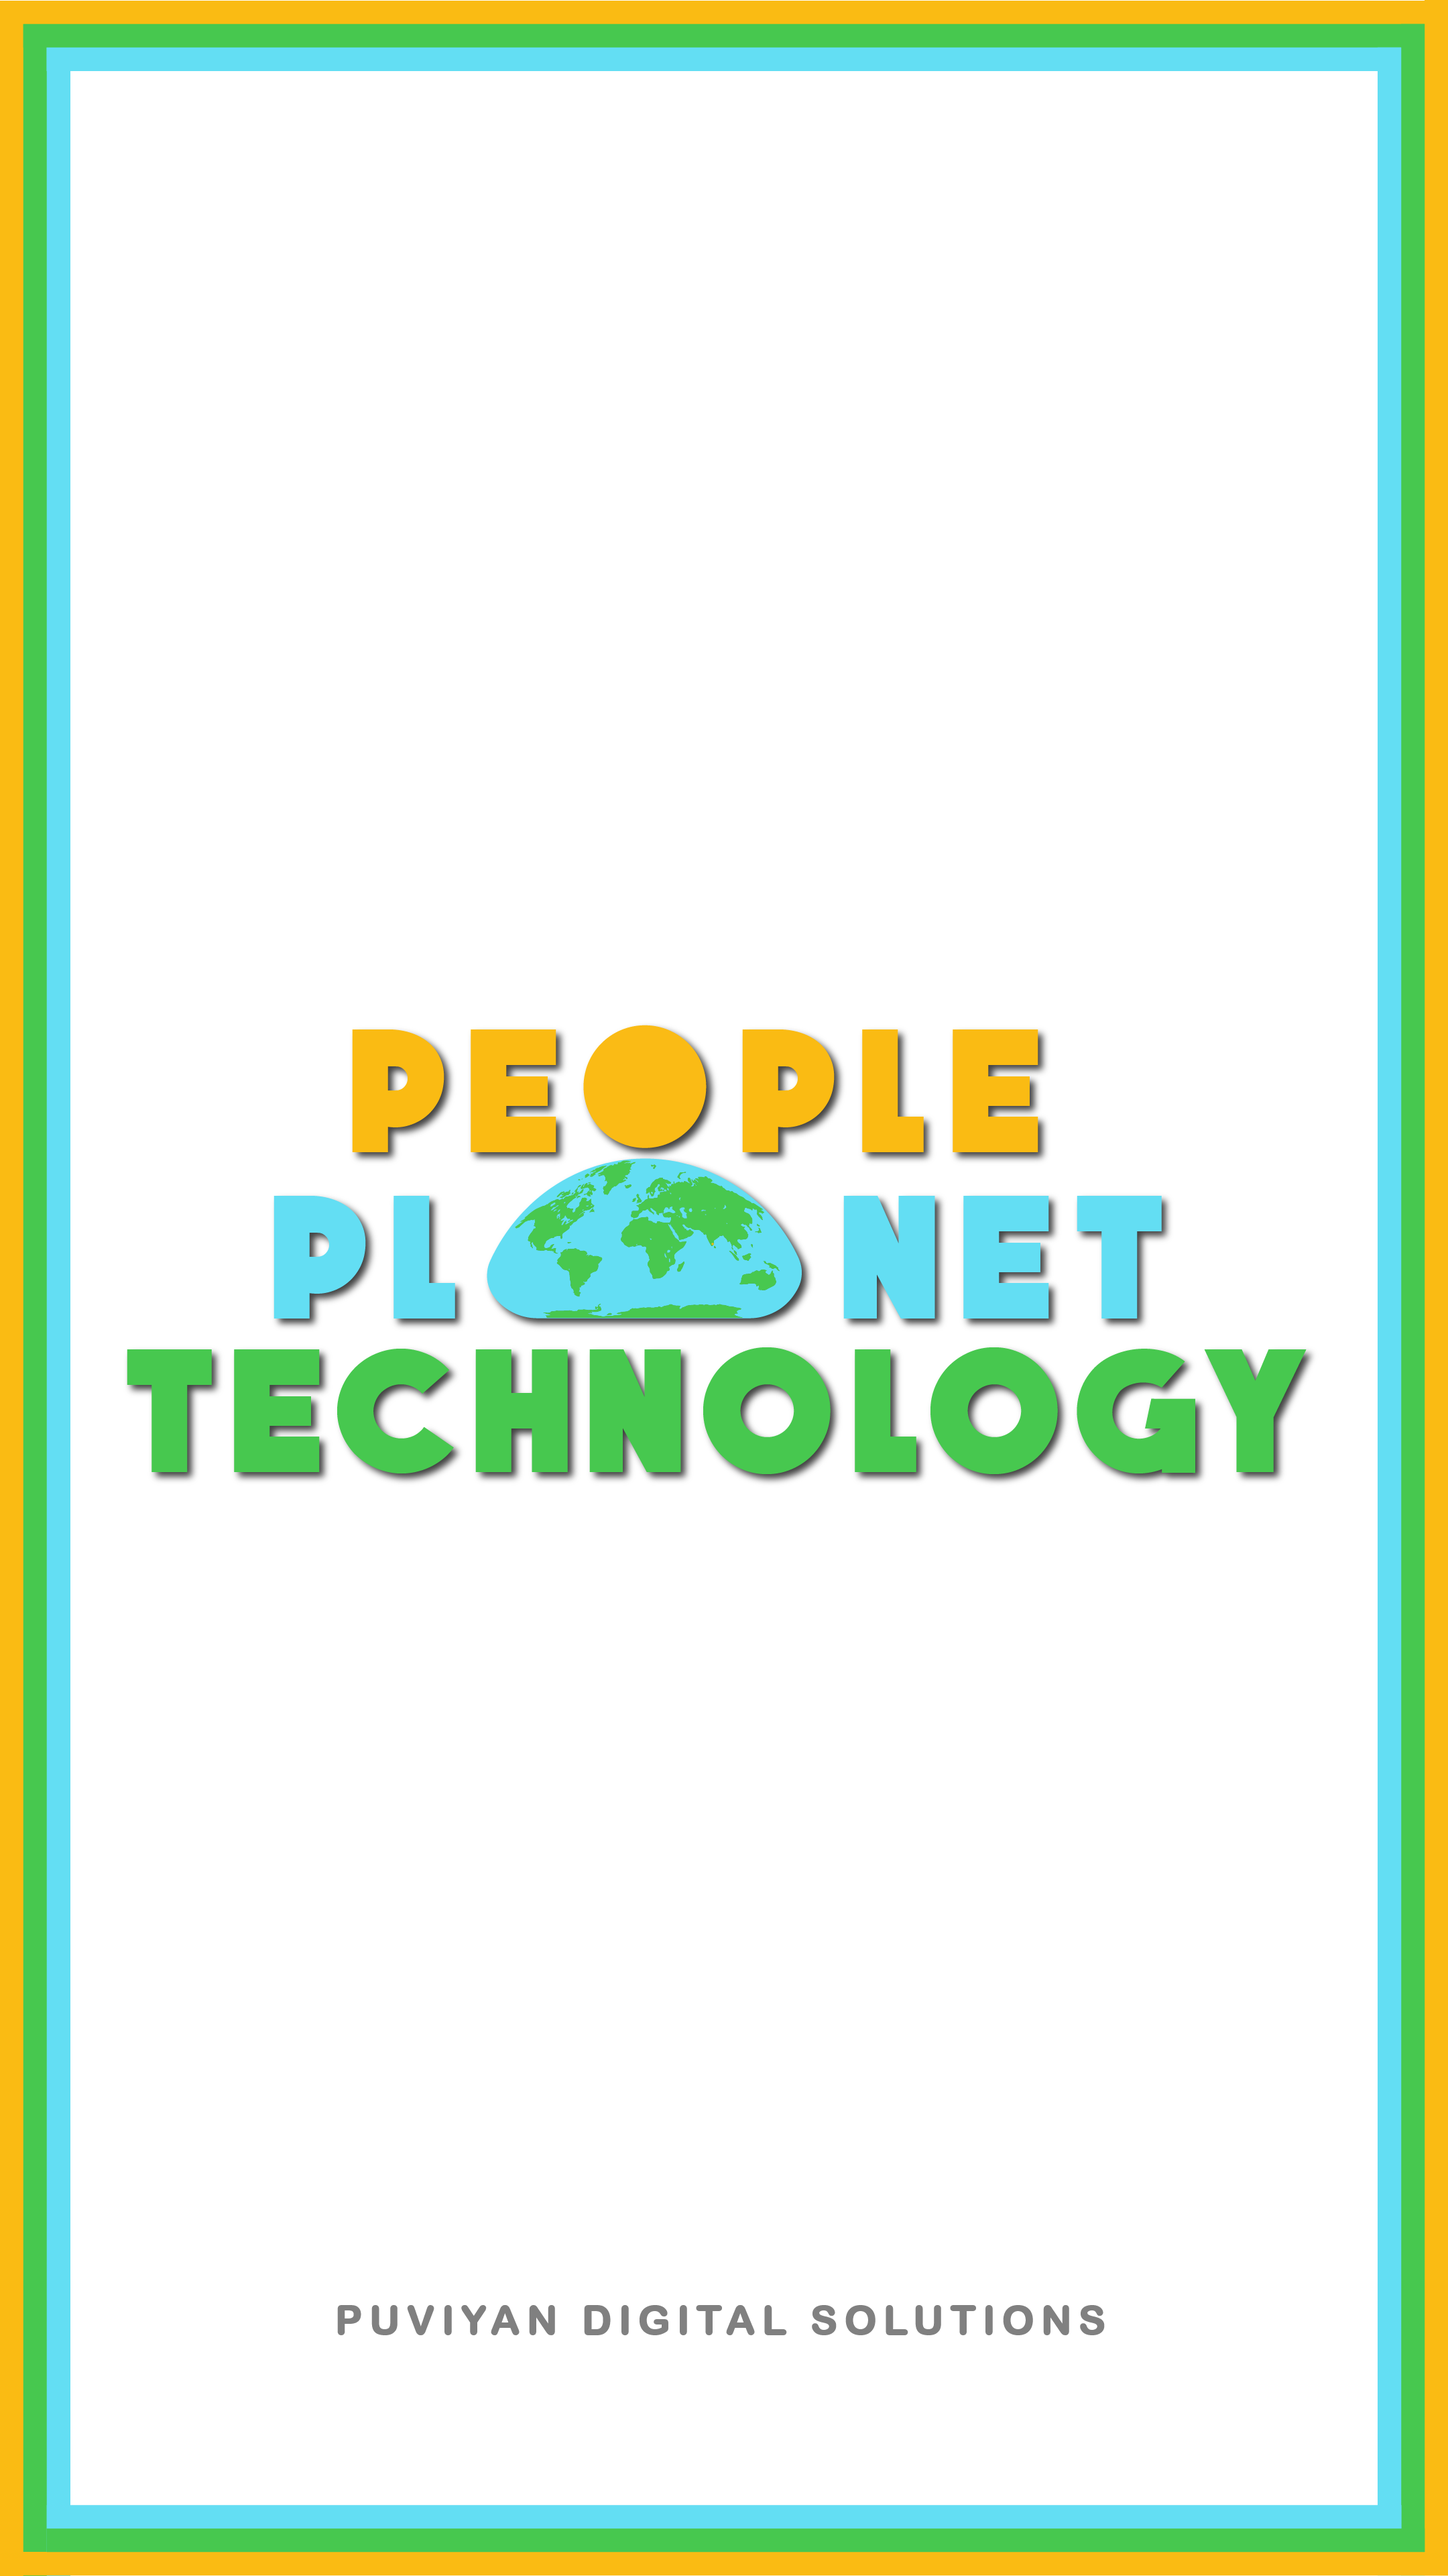
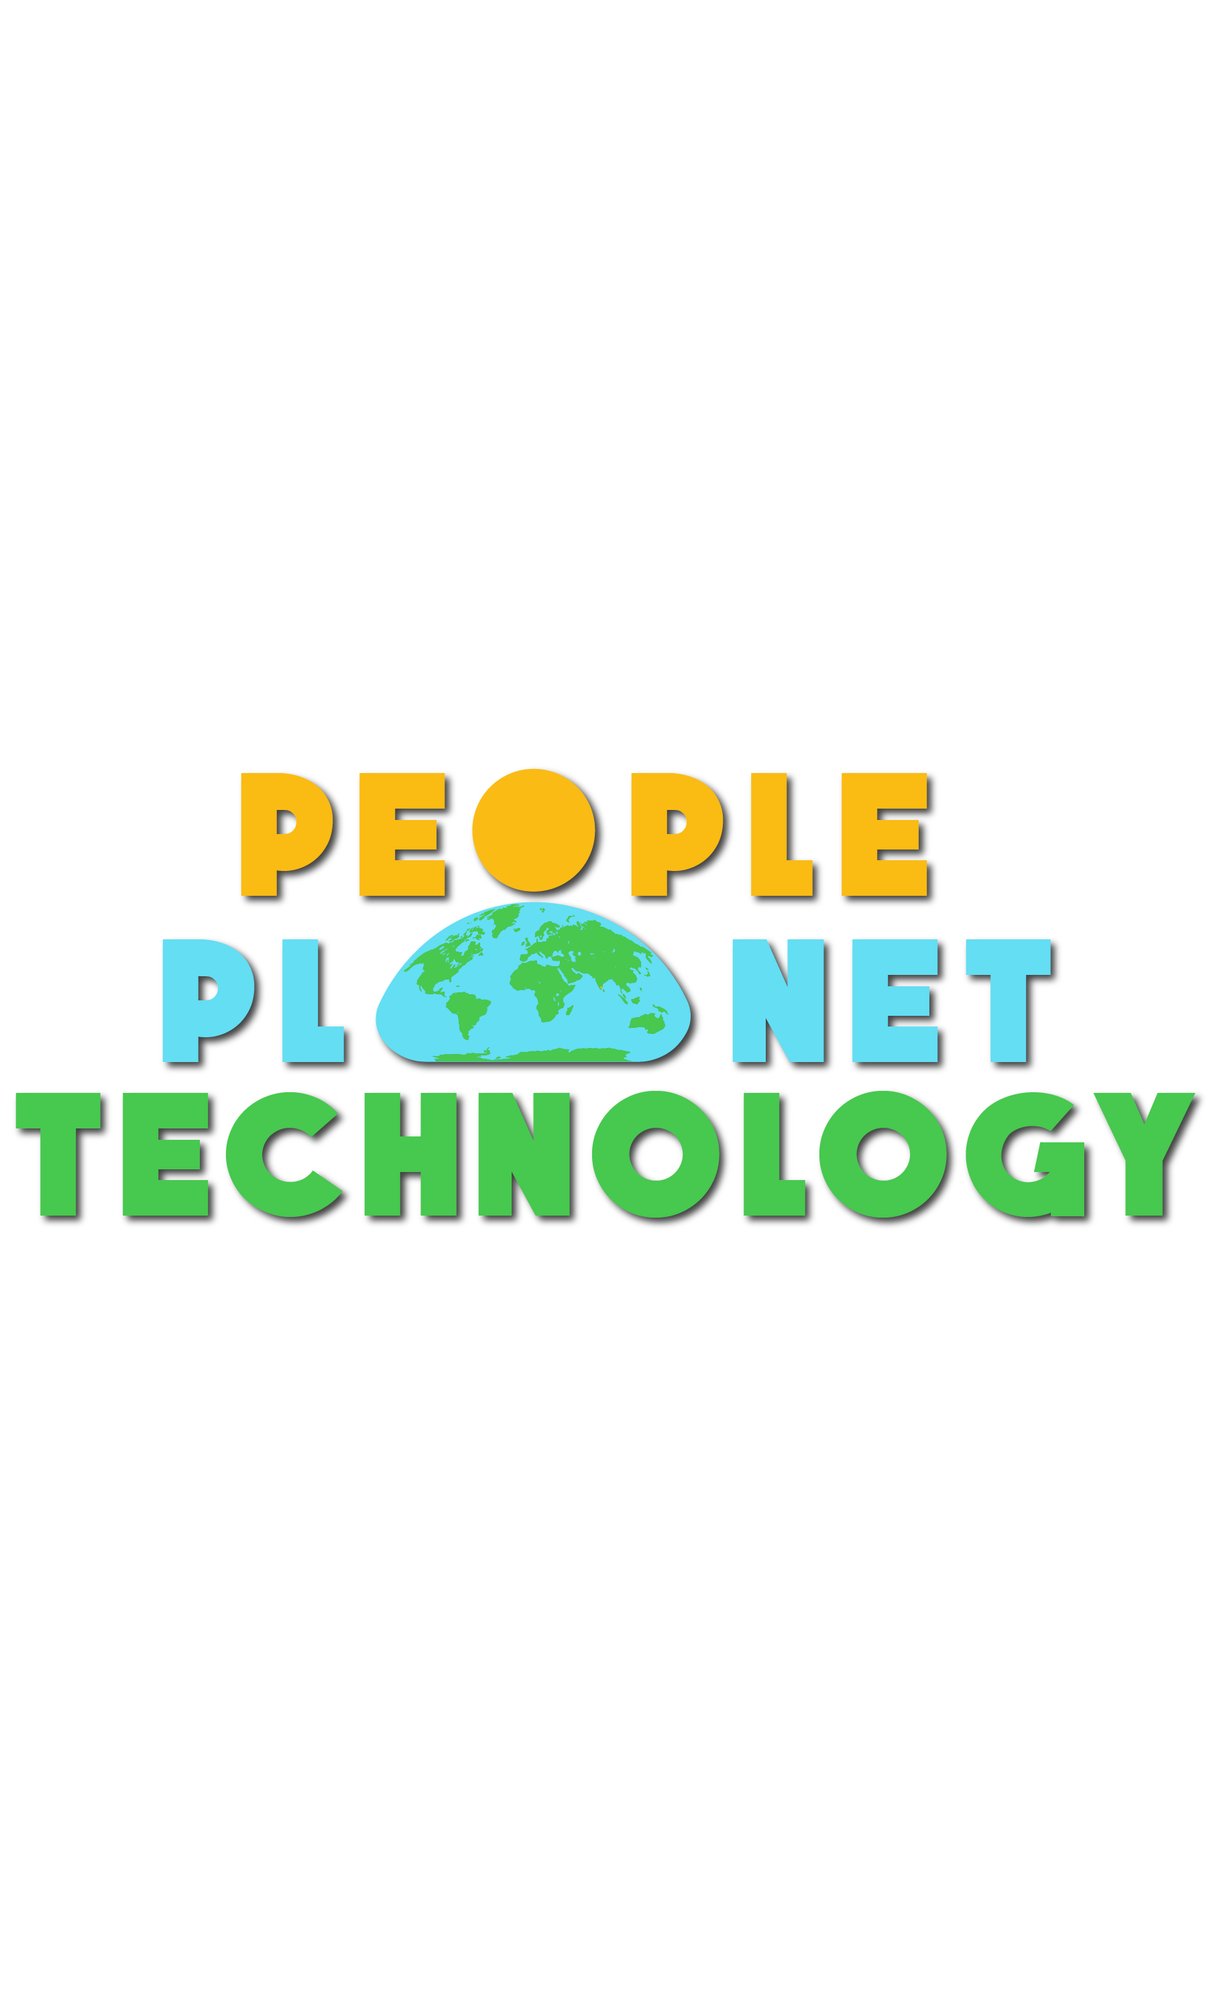
Added file

diff --git a/src/components/AboutUs.tsx b/src/components/AboutUs.tsx
@@ -12,17 +12,15 @@ Real change begins with individual action, but its true strength lies in the sha
   `;
 
   return (
-    <section className="w-full bg-white">
+    <section className="w-full bg-white relative overflow-hidden">
+      {/* Three-line border */}
+      <div className="absolute inset-0 z-0 pointer-events-none">
+        <div className="absolute inset-0 border-[18px] border-[#F6D32D] rounded-none"></div>
+        <div className="absolute inset-4 border-[10px] border-[#3CCB6C] rounded-none"></div>
+        <div className="absolute inset-8 border-[6px] border-[#63DEF3] rounded-none"></div>
+      </div>
       <Header />
-      <div className="container mx-auto px-4 pt-8">
-        <motion.h2
-          className="text-4xl md:text-5xl font-bold text-gray-900 mb-8 text-center"
-          initial={{ opacity: 0, y: 50 }}
-          animate={{ opacity: 1, y: 0 }}
-          transition={{ duration: 1 }}
-        >
-          About Puviyan
-        </motion.h2>
+      <div className="container mx-auto px-4 pt-8 relative z-10">
         <div className="flex flex-col md:flex-row items-stretch">
           {/* Left side - Image */}
           <div className="md:w-1/2 h-full w-full mb-8 md:mb-0 md:mr-8">
